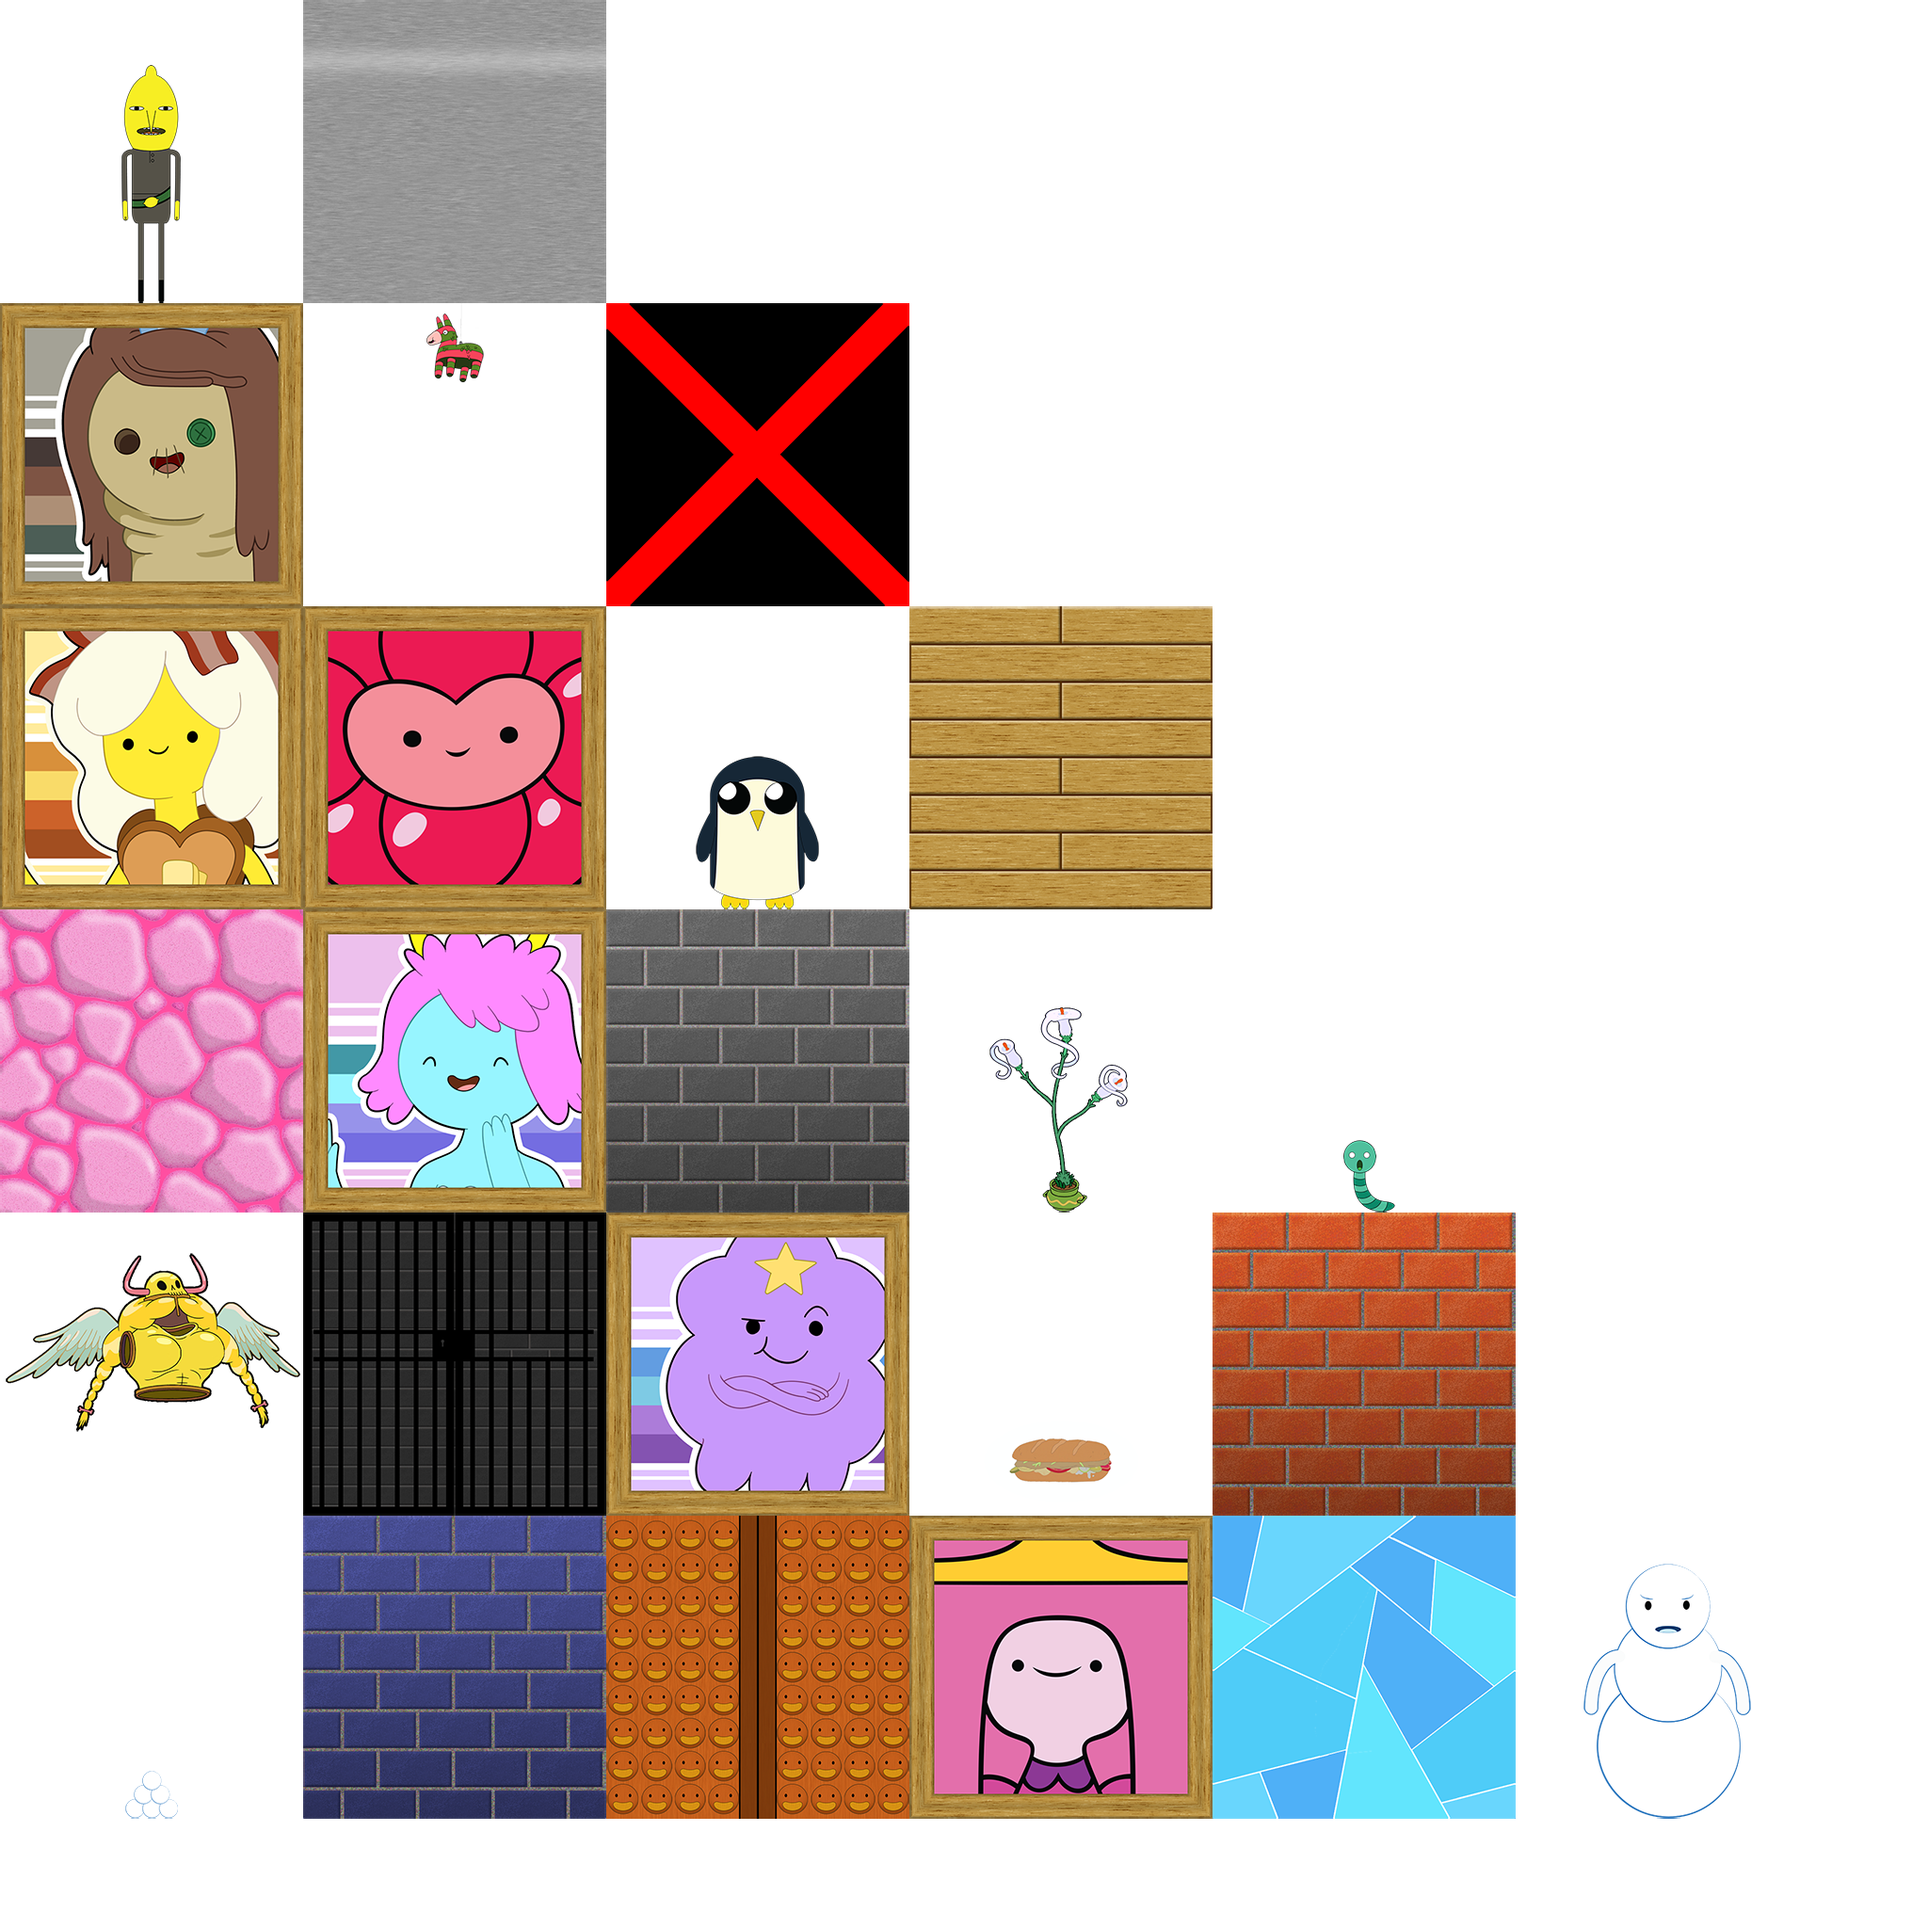
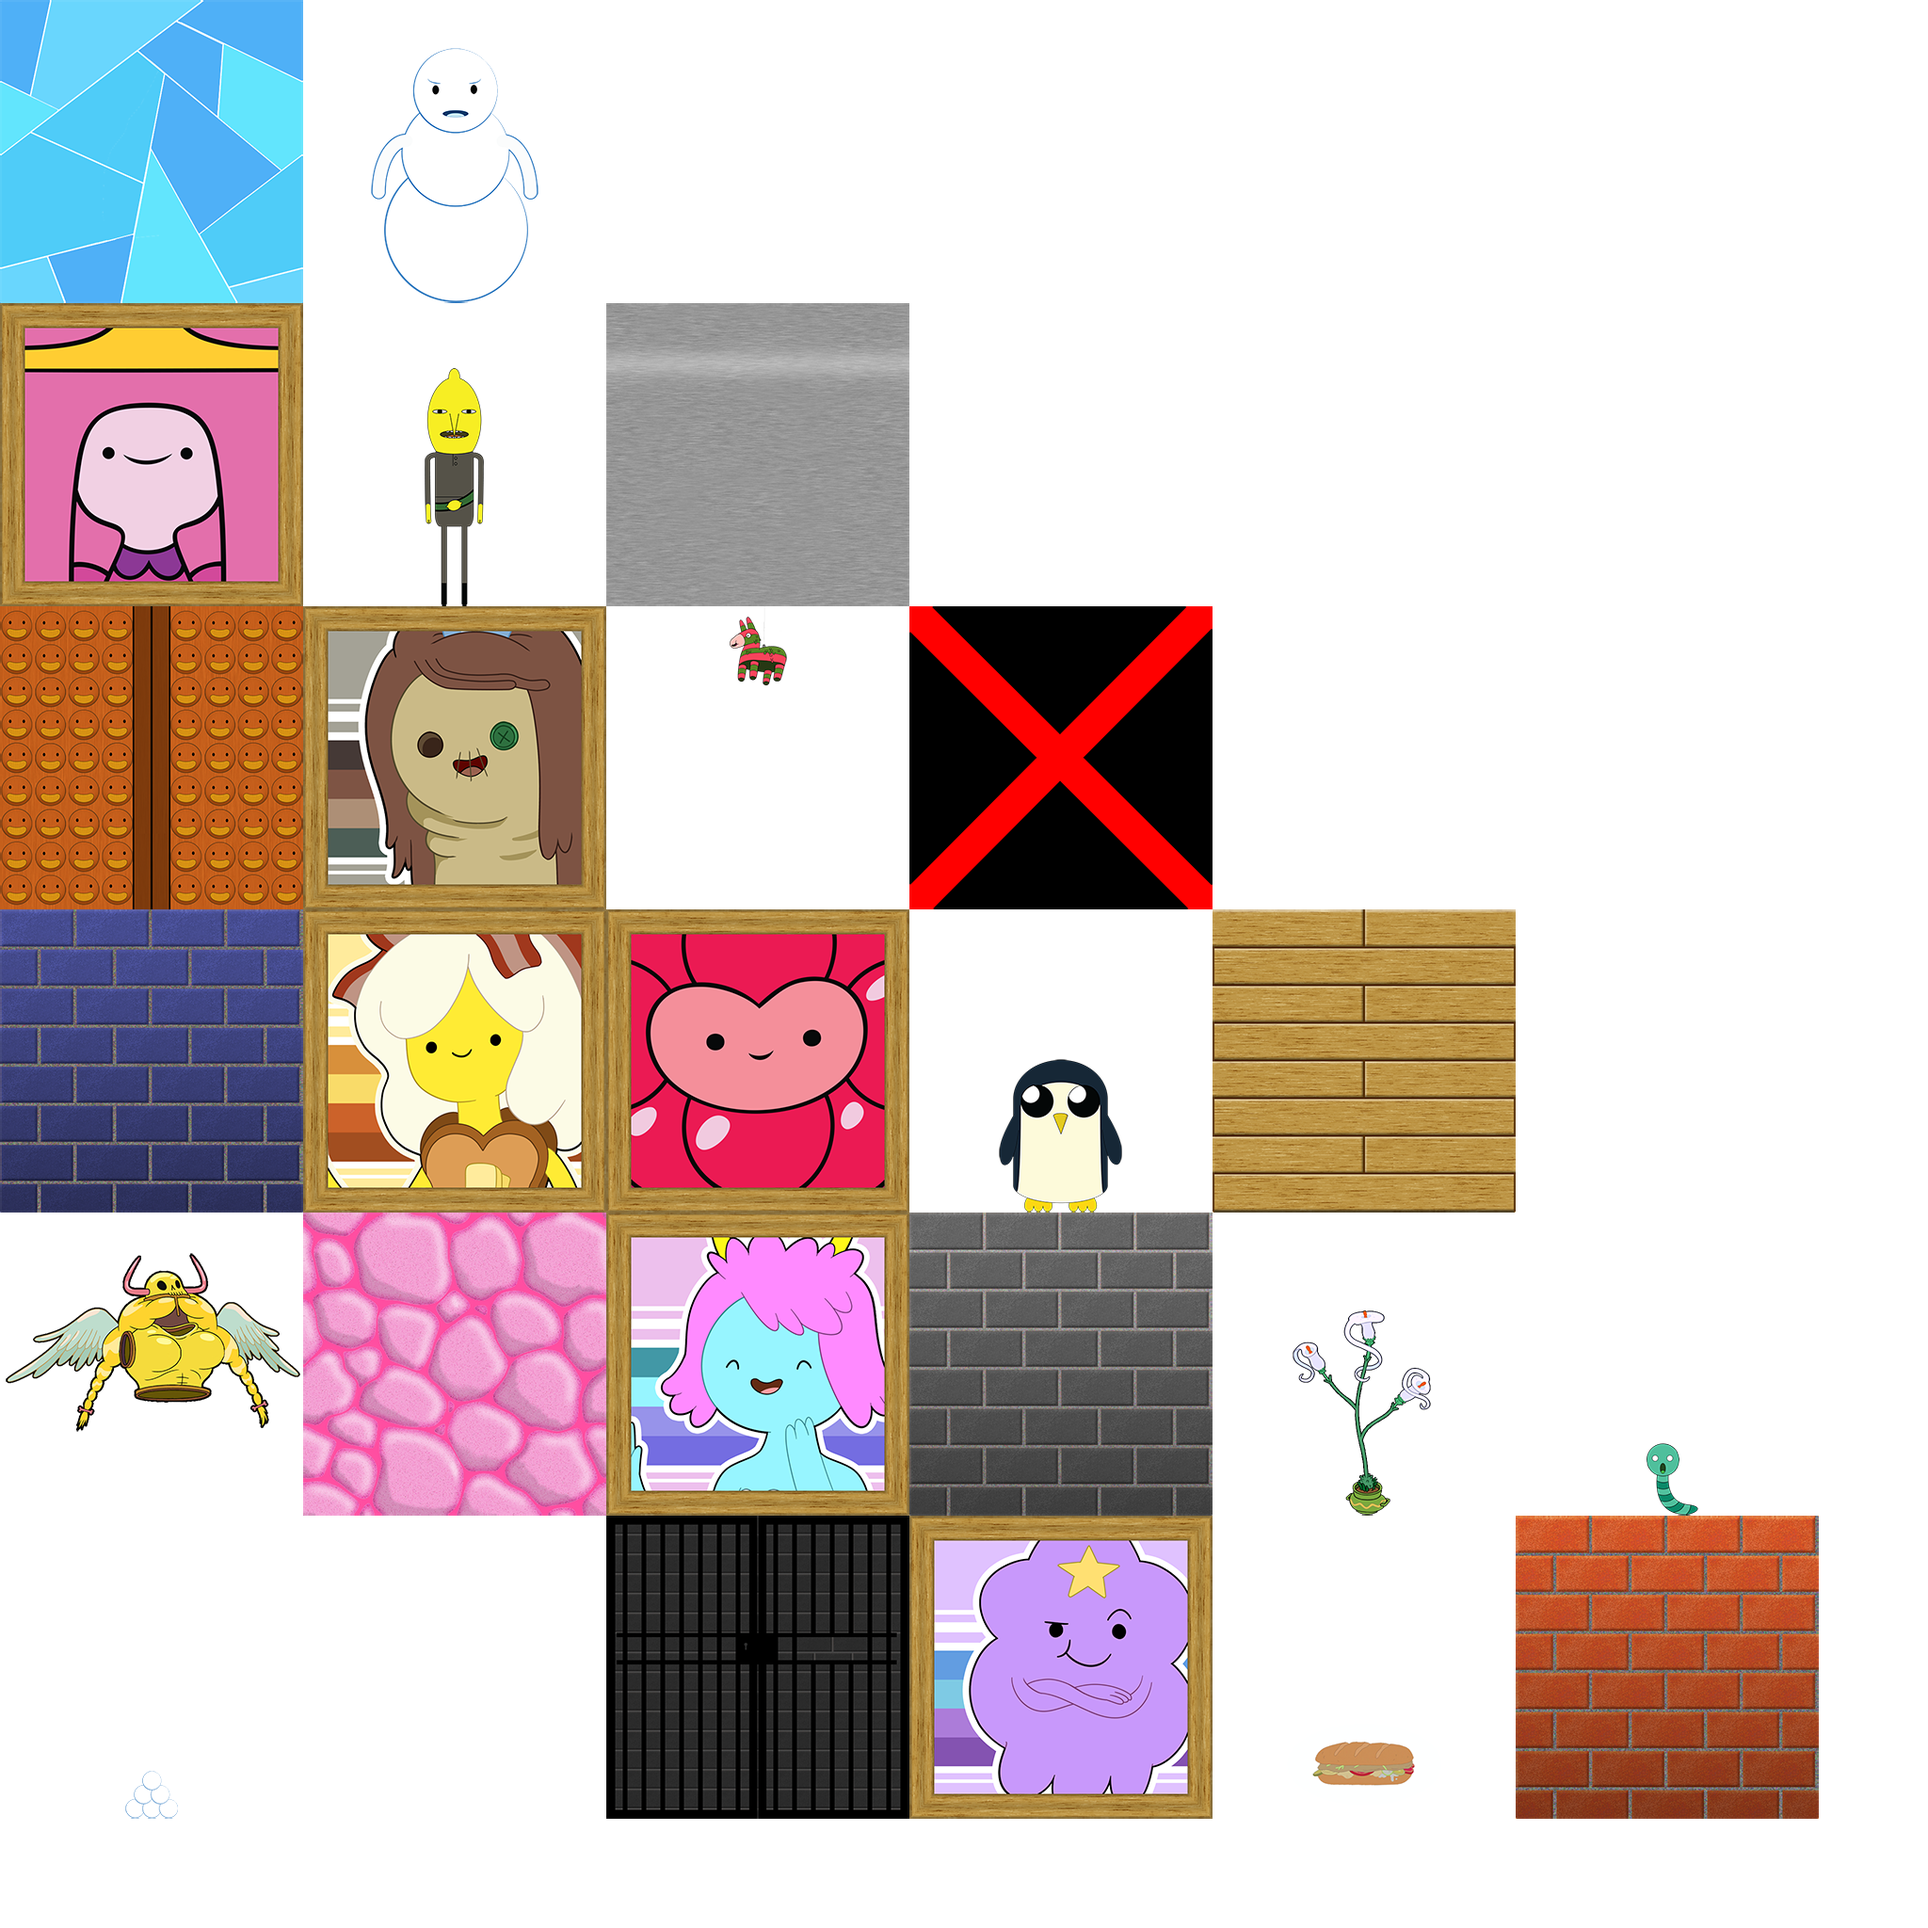
Added medkit(nurse)

diff --git a/deco2800.arcade.wl6/src/main/java/deco2800/arcade/wl6/DoodadList.java b/deco2800.arcade.wl6/src/main/java/deco2800/arcade/wl6/DoodadList.java
@@ -84,7 +84,7 @@ public class DoodadList {
                     DoodadInfo.wayPoint(DIRS.LEFT).specialCase(),
 
                     //23: puddle of water
-                    DoodadInfo.nonsolidScenery("puddle"),
+                    DoodadInfo.nonsolidScenery("blank"),
 
                     //24: oil drum
                     DoodadInfo.solidScenery("plant"),
@@ -159,7 +159,7 @@ public class DoodadList {
                     DoodadInfo.healthPickup("health", 10, 0),
 
                     //48: medkit
-                    DoodadInfo.healthPickup("medkit", 25, 0),
+                    DoodadInfo.healthPickup("clownnurse", 25, 0),
 
                     //49: ammo pickup
                     DoodadInfo.ammoPickup("ammo", 5, 0),
